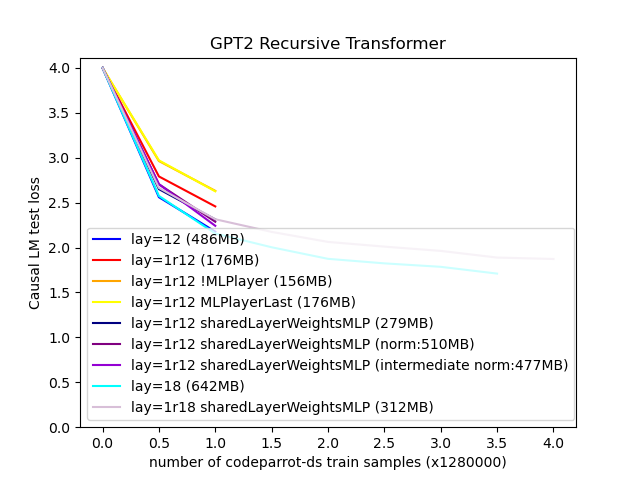
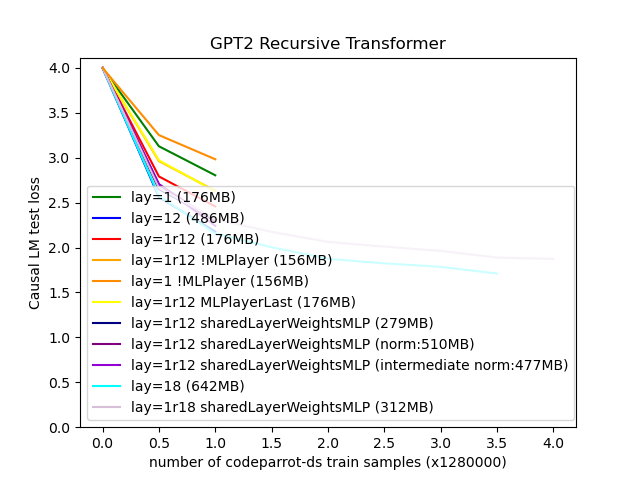
add graphs ROBERTAptRecursive/GPT2ptRecursive:!transformerBlockMLPlayer+numberOfLayers1

Changed region(s): [[0.125, 0.1875, 0.5312, 0.5938], [0.1562, 0.5312, 0.1875, 0.5938], [0.1562, 0.1562, 0.1875, 0.1875]]

diff --git a/graph/recursiveLayers/trainingResults/positionEmbeddingTypeRelative/GPT2CausalRecursiveTransformer-transformerBlockMLPlayer-perplexity.py b/graph/recursiveLayers/trainingResults/positionEmbeddingTypeRelative/GPT2CausalRecursiveTransformer-transformerBlockMLPlayer-perplexity.py
@@ -2,16 +2,19 @@ import matplotlib.pyplot as plt
 import numpy as np
 
 x = np.array([0, 0.5, 1, 1.5, 2, 2.5, 3, 3.5, 4])
-y2 = np.array([25.0, 12.94555950164795, 8.822596549987793, np.nan, np.nan, np.nan, np.nan, np.nan, np.nan])
-y3 = np.array([25.0, 16.30487823486328, 11.679261207580566, np.nan, np.nan, np.nan, np.nan, np.nan, np.nan])
-y6 = np.array([25.0, 19.353580474853516, 13.894586563110352, np.nan, np.nan, np.nan, np.nan, np.nan, np.nan])
-y7 = np.array([25.0, 19.506969451904297, 13.819287300109863, np.nan, np.nan, np.nan, np.nan, np.nan, np.nan])
-y8 = np.array([25.0, 14.158235549926758, 10.10225772857666, np.nan, np.nan, np.nan, np.nan, np.nan, np.nan])
-y9 = np.array([25.0, 14.952799797058105, 9.847137451171875, np.nan, np.nan, np.nan, np.nan, np.nan, np.nan])
-y10 = np.array([25.0, 14.95771312713623, 9.411134719848633, np.nan, np.nan, np.nan, np.nan, np.nan, np.nan])
-y11 = np.array([25.0, 13.122990608215332, 8.640877723693848, 7.411283016204834, 6.516513824462891, 6.19566535949707, 5.961752414703369, 5.528520107269287, np.nan ])
-y12 = np.array([25.0, 14.354602813720703, 10.125027656555176, 8.795341491699219, 7.866785049438477, 7.464639663696289, 7.118199825286865, 6.609375, 6.504546642303467])
+y1 = np.array([30.0, 22.8142147064209, 16.517902374267578, np.nan, np.nan, np.nan, np.nan, np.nan, np.nan])
+y2 = np.array([30.0, 12.94555950164795, 8.822596549987793, np.nan, np.nan, np.nan, np.nan, np.nan, np.nan])
+y3 = np.array([30.0, 16.30487823486328, 11.679261207580566, np.nan, np.nan, np.nan, np.nan, np.nan, np.nan])
+y6 = np.array([30.0, 19.353580474853516, 13.894586563110352, np.nan, np.nan, np.nan, np.nan, np.nan, np.nan])
+y7 = np.array([30.0, 19.506969451904297, 13.819287300109863, np.nan, np.nan, np.nan, np.nan, np.nan, np.nan])
+y8 = np.array([30.0, 14.158235549926758, 10.10225772857666, np.nan, np.nan, np.nan, np.nan, np.nan, np.nan])
+y9 = np.array([30.0, 14.952799797058105, 9.847137451171875, np.nan, np.nan, np.nan, np.nan, np.nan, np.nan])
+y10 = np.array([30.0, 14.95771312713623, 9.411134719848633, np.nan, np.nan, np.nan, np.nan, np.nan, np.nan])
+y11 = np.array([30.0, 13.122990608215332, 8.640877723693848, 7.411283016204834, 6.516513824462891, 6.19566535949707, 5.961752414703369, 5.528520107269287, np.nan ])
+y12 = np.array([30.0, 14.354602813720703, 10.125027656555176, 8.795341491699219, 7.866785049438477, 7.464639663696289, 7.118199825286865, 6.609375, 6.504546642303467])
+y14 = np.array([30.0, 25.837995529174805, 19.7428035736084, np.nan, np.nan, np.nan, np.nan, np.nan, np.nan])
 
+l1, = plt.plot(x, y1, color='green', label='lay=1 (176MB)')
 l2, = plt.plot(x, y2, color='blue', label='lay=12 (486MB)')
 l3, = plt.plot(x, y3, color='red', label='lay=1r12 (176MB)')
 l6, = plt.plot(x, y6, color='orange', label='lay=1r12 !MLPlayer (156MB)')
@@ -21,6 +24,7 @@ l9, = plt.plot(x, y9, color='purple', label='lay=1r12 sharedLayerWeightsMLP (nor
 l10, = plt.plot(x, y10, color='darkviolet', label='lay=1r12 sharedLayerWeightsMLP (intermediate norm:477MB)')
 l11, = plt.plot(x, y11, color='cyan', label='lay=18 (642MB)')
 l12, = plt.plot(x, y12, color='thistle', label='lay=1r18 sharedLayerWeightsMLP (312MB)')
+l14, = plt.plot(x, y14, color='darkorange', label='lay=1 !MLPlayer (156MB)')
 
 plt.xticks(np.arange(min(x), max(x)+0.5, 0.5))
 plt.yticks(np.arange(0, 25.0+2.0, 2.0))
@@ -29,6 +33,6 @@ plt.xlabel("number of codeparrot-ds train samples (x1280000)")
 plt.ylabel("Causal LM test perplexity")
 plt.title("GPT2 Recursive Transformer")
 
-plt.legend(handles=[l2, l3, l6, l7, l8, l9, l10, l11, l12])
+plt.legend(handles=[l1, l2, l3, l6, l14, l7, l8, l9, l10, l11, l12])
 
 plt.show()

diff --git a/graph/recursiveLayers/trainingResults/positionEmbeddingTypeAbsolute/GPT2CausalRecursiveTransformer-transformerBlockMLPlayer-perplexity.py b/graph/recursiveLayers/trainingResults/positionEmbeddingTypeAbsolute/GPT2CausalRecursiveTransformer-transformerBlockMLPlayer-perplexity.py
@@ -2,19 +2,23 @@ import matplotlib.pyplot as plt
 import numpy as np
 
 x = np.array([0, 0.5, 1, 1.5, 2, 2.5, 3, 3.5, 4])
-y2 = np.array([25.0, 8.46451473236084, 6.351888179779053, 5.609471321105957, 5.203763008117676, 4.954327583312988, 4.783695220947266, 4.655602931976318, 4.573307037353516])
-y3 = np.array([25.0, 11.413861274719238, 8.91283893585205, 8.011733055114746, 7.461851596832275, 7.120016574859619, 6.929925918579102, 6.687497615814209, 6.60063362121582])
-y6 = np.array([25.0, np.nan, np.nan, np.nan, np.nan, np.nan, np.nan, np.nan, np.nan])
-y7 = np.array([25.0, np.nan, np.nan, np.nan, np.nan, np.nan, np.nan, np.nan, np.nan])
-y8 = np.array([25.0, 15.31370735168457, 10.615104675292969, np.nan, np.nan, np.nan, np.nan, np.nan, np.nan])
-y13 = np.array([25.0, 15.526958465576172, 11.304801940917969, np.nan, np.nan, np.nan, np.nan, np.nan, np.nan])
+y1 = np.array([30.0, 16.17632293701172, 12.893939971923828, 11.613675117492676, 10.887641906738281, 10.431144714355469, 10.097999572753906, 9.906881332397461, 9.716487884521484])
+y2 = np.array([30.0, 8.46451473236084, 6.351888179779053, 5.609471321105957, 5.203763008117676, 4.954327583312988, 4.783695220947266, 4.655602931976318, 4.573307037353516])
+y3 = np.array([30.0, 11.413861274719238, 8.91283893585205, 8.011733055114746, 7.461851596832275, 7.120016574859619, 6.929925918579102, 6.687497615814209, 6.60063362121582])
+y6 = np.array([30.0, np.nan, np.nan, np.nan, np.nan, np.nan, np.nan, np.nan, np.nan])
+y7 = np.array([30.0, np.nan, np.nan, np.nan, np.nan, np.nan, np.nan, np.nan, np.nan])
+y8 = np.array([30.0, 15.31370735168457, 10.615104675292969, np.nan, np.nan, np.nan, np.nan, np.nan, np.nan])
+y13 = np.array([30.0, 15.526958465576172, 11.304801940917969, np.nan, np.nan, np.nan, np.nan, np.nan, np.nan])
+y14 = np.array([30.0, 26.357221603393555, 20.34063148498535, np.nan, np.nan, np.nan, np.nan, np.nan, np.nan])
 
+l1, = plt.plot(x, y1, color='green', label='lay=1 (176MB)')
 l2, = plt.plot(x, y2, color='blue', label='lay=12 (486MB)')
 l3, = plt.plot(x, y3, color='red', label='lay=1r12 (176MB)')
 l6, = plt.plot(x, y6, color='orange', label='lay=1r12 !MLPlayer (156MB)')
 l7, = plt.plot(x, y7, color='yellow', label='lay=1r12 MLPlayerLast (176MB)')
 l8, = plt.plot(x, y8, color='navy', label='lay=1r12 sharedLayerWeightsMLP (276MB)')
 l13, = plt.plot(x, y13, color='orange', label='lay=1r12 !MLPlayer (norm:463MB)')
+l14, = plt.plot(x, y14, color='darkorange', label='lay=1 !MLPlayer (158MB)')
 
 plt.xticks(np.arange(min(x), max(x)+0.5, 0.5))
 plt.yticks(np.arange(0, 25.0+2.0, 2.0))
@@ -23,6 +27,6 @@ plt.xlabel("number of codeparrot-ds train samples (x1280000)")
 plt.ylabel("Causal LM test perplexity")
 plt.title("GPT2 Recursive Transformer")
 
-plt.legend(handles=[l2, l3, l8, l13])
+plt.legend(handles=[l1, l2, l3, l8, l13, l14])
 
 plt.show()

diff --git a/graph/recursiveLayers/trainingResults/positionEmbeddingTypeRelative/GPT2CausalRecursiveTransformer-transformerBlockMLPlayer-loss.py b/graph/recursiveLayers/trainingResults/positionEmbeddingTypeRelative/GPT2CausalRecursiveTransformer-transformerBlockMLPlayer-loss.py
@@ -2,6 +2,7 @@ import matplotlib.pyplot as plt
 import numpy as np
 
 x = np.array([0, 0.5, 1, 1.5, 2, 2.5, 3, 3.5, 4])
+y1 = np.array([4.0, 3.1273837089538574, 2.8044447898864746, np.nan, np.nan, np.nan, np.nan, np.nan, np.nan])
 y2 = np.array([4.0, 2.5607528686523438, 2.177316188812256, np.nan, np.nan, np.nan, np.nan, np.nan, np.nan])
 y3 = np.array([4.0, 2.791464328765869, 2.4578146934509277, np.nan, np.nan, np.nan, np.nan, np.nan, np.nan])
 y6 = np.array([4.0, 2.9628775119781494, 2.6314992904663086, np.nan, np.nan, np.nan, np.nan, np.nan, np.nan])
@@ -11,7 +12,9 @@ y9 = np.array([4.0, 2.7048985958099365, 2.2871809005737305, np.nan, np.nan, np.n
 y10 = np.array([4.0, 2.7052271366119385, 2.2418935298919678, np.nan, np.nan, np.nan, np.nan, np.nan, np.nan])
 y11 = np.array([4.0, 2.5743656158447266, 2.1565041542053223, 2.0030035972595215, 1.8743395805358887, 1.8238499164581299, 1.7853643894195557, 1.7099201679229736, np.nan ])
 y12 = np.array([4.0, 2.6640706062316895, 2.3150103092193604, 2.174222230911255, 2.0626494884490967, 2.0101771354675293, 1.9626548290252686, 1.888489007949829, 1.8725013732910156])
+y14 = np.array([4.0, 3.2518460750579834, 2.9827890396118164, np.nan, np.nan, np.nan, np.nan, np.nan, np.nan])
 
+l1, = plt.plot(x, y1, color='green', label='lay=1 (176MB)')
 l2, = plt.plot(x, y2, color='blue', label='lay=12 (486MB)')
 l3, = plt.plot(x, y3, color='red', label='lay=1r12 (176MB)')
 l6, = plt.plot(x, y6, color='orange', label='lay=1r12 !MLPlayer (156MB)')
@@ -21,6 +24,7 @@ l9, = plt.plot(x, y9, color='purple', label='lay=1r12 sharedLayerWeightsMLP (nor
 l10, = plt.plot(x, y10, color='darkviolet', label='lay=1r12 sharedLayerWeightsMLP (intermediate norm:477MB)')
 l11, = plt.plot(x, y11, color='cyan', label='lay=18 (642MB)')
 l12, = plt.plot(x, y12, color='thistle', label='lay=1r18 sharedLayerWeightsMLP (312MB)')
+l14, = plt.plot(x, y14, color='darkorange', label='lay=1 !MLPlayer (156MB)')
 
 plt.xticks(np.arange(min(x), max(x)+0.5, 0.5))
 plt.yticks(np.arange(0, 4.0+0.1, 0.5))
@@ -29,6 +33,6 @@ plt.xlabel("number of codeparrot-ds train samples (x1280000)")
 plt.ylabel("Causal LM test loss")
 plt.title("GPT2 Recursive Transformer")
 
-plt.legend(handles=[l2, l3, l6, l7, l8, l9, l10, l11, l12], loc='lower left')
+plt.legend(handles=[l1, l2, l3, l6, l14, l7, l8, l9, l10, l11, l12], loc='lower left')
 
 plt.show()

diff --git a/graph/recursiveLayers/trainingResults/positionEmbeddingTypeRelative/GPT2CausalRecursiveTransformer-transformerBlockMLPlayer.py b/graph/recursiveLayers/trainingResults/positionEmbeddingTypeRelative/GPT2CausalRecursiveTransformer-transformerBlockMLPlayer.py
@@ -2,6 +2,7 @@ import matplotlib.pyplot as plt
 import numpy as np
 
 x = np.array([0, 0.5, 1, 1.5, 2, 2.5, 3, 3.5, 4])
+y1 = np.array([0.0, 0.42544126510620117, 0.4689004719257355, np.nan, np.nan, np.nan, np.nan, np.nan, np.nan])
 y2 = np.array([0.0, 0.5252946615219116, 0.5836884379386902, np.nan, np.nan, np.nan, np.nan, np.nan, np.nan])
 y3 = np.array([0.0, 0.49481841921806335, 0.539782702922821, np.nan, np.nan, np.nan, np.nan, np.nan, np.nan])
 y6 = np.array([0.0, 0.4629115164279938, 0.5114670395851135, np.nan, np.nan, np.nan, np.nan, np.nan, np.nan])
@@ -11,7 +12,9 @@ y9 = np.array([0.0, 0.5035503506660461, 0.5652393102645874, np.nan, np.nan, np.n
 y10 = np.array([0.0, 0.5022847652435303, 0.5738951563835144, np.nan, np.nan, np.nan, np.nan, np.nan, np.nan])
 y11 = np.array([0.0, 0.5243274569511414, 0.5877714157104492, 0.6125690937042236, 0.6370240449905396, 0.6460591554641724, 0.6511420607566833, 0.6658273935317993, np.nan])
 y12 = np.array([0.0, 0.5122008323669434, 0.561950147151947, 0.5813300013542175, 0.6017950177192688, 0.6117182374000549, 0.6191267967224121, 0.6318800449371338, 0.6338686943054199])
+y14 = np.array([0.0, 0.4097575545310974, 0.4444747269153595, np.nan, np.nan, np.nan, np.nan, np.nan, np.nan])
 
+l1, = plt.plot(x, y1, color='green', label='lay=1 (176MB)')
 l2, = plt.plot(x, y2, color='blue', label='lay=12 (486MB)')
 l3, = plt.plot(x, y3, color='red', label='lay=1r12 (176MB)')
 l6, = plt.plot(x, y6, color='orange', label='lay=1r12 !MLPlayer (156MB)')
@@ -21,6 +24,7 @@ l9, = plt.plot(x, y9, color='purple', label='lay=1r12 sharedLayerWeightsMLP (nor
 l10, = plt.plot(x, y10, color='darkviolet', label='lay=1r12 sharedLayerWeightsMLP (intermediate norm:477MB)')
 l11, = plt.plot(x, y11, color='cyan', label='lay=18 (642MB)')
 l12, = plt.plot(x, y12, color='thistle', label='lay=1r18 sharedLayerWeightsMLP (312MB)')
+l14, = plt.plot(x, y14, color='darkorange', label='lay=1 !MLPlayer (156MB)')
 
 plt.xticks(np.arange(min(x), max(x)+0.5, 0.5))
 plt.yticks(np.arange(0, 0.7+0.1, 0.1))
@@ -29,6 +33,6 @@ plt.xlabel("number of codeparrot-ds train samples (x1280000)")
 plt.ylabel("Causal LM test accuracy (Top-1)")
 plt.title("GPT2 Recursive Transformer")
 
-plt.legend(handles=[l2, l3, l6, l7, l8, l9, l10, l11, l12])
+plt.legend(handles=[l1, l2, l3, l6, l14, l7, l8, l9, l10, l11, l12])
 
 plt.show()

diff --git a/graph/recursiveLayers/trainingResults/positionEmbeddingTypeRelative/RobertaMaskedRecursiveTransformer-transformerBlockMLPlayer-loss.py b/graph/recursiveLayers/trainingResults/positionEmbeddingTypeRelative/RobertaMaskedRecursiveTransformer-transformerBlockMLPlayer-loss.py
@@ -2,19 +2,23 @@ import matplotlib.pyplot as plt
 import numpy as np
 
 x = np.array([0, 1, 2, 3, 4])
-y2 = np.array([0.5, 0.30940675837397574, 0.28117460092902186, 0.2687879767358303, 0.2612325044542551])
-y3 = np.array([0.5, 0.30296802766025066, 0.28217491447329524, 0.27392400919795035, 0.2656524788528681])
-y6 = np.array([0.5, 0.3210689457276463, np.nan, np.nan, np.nan])
-y7 = np.array([0.5, 0.3213745343607664, np.nan, np.nan, np.nan])
-y8 = np.array([0.5, 0.3079980277708173, np.nan, np.nan, np.nan ])
-y9 = np.array([0.5, 0.3090381079044938, np.nan, np.nan, np.nan ])
+y1 = np.array([1.0, 0.3768070258796215, 0.35672451157569884, 0.34805026364922526, 0.3422828152537346])
+y2 = np.array([1.0, 0.30940675837397574, 0.28117460092902186, 0.2687879767358303, 0.2612325044542551])
+y3 = np.array([1.0, 0.30296802766025066, 0.28217491447329524, 0.27392400919795035, 0.2656524788528681])
+y6 = np.array([1.0, 0.3210689457276463, np.nan, np.nan, np.nan])
+y7 = np.array([1.0, 0.3213745343607664, np.nan, np.nan, np.nan])
+y8 = np.array([1.0, 0.3079980277708173, np.nan, np.nan, np.nan ])
+y9 = np.array([1.0, 0.3090381079044938, np.nan, np.nan, np.nan ])
+y14 = np.array([1.0, 0.8107746505975724, np.nan, np.nan, np.nan ])
 
+l1, = plt.plot(x, y1, color='green', label='lay=1 (120MB)')
 l2, = plt.plot(x, y2, color='blue', label='lay=6 (256MB)')
 l3, = plt.plot(x, y3, color='red', label='lay=1r6 (120MB)')
 l6, = plt.plot(x, y6, color='orange', label='lay=1r6 !MLPlayer (120MB)')
 l7, = plt.plot(x, y7, color='yellow', label='lay=1r6 MLPlayerLast (120MB)')
 l8, = plt.plot(x, y9, color='purple', label='lay=1r6 sharedLayerWeightsMLP (167MB)')
 l9, = plt.plot(x, y8, color='navy', label='lay=1r6 sharedLayerWeightsMLP+SelfOut (156MB)')
+l14, = plt.plot(x, y14, color='orange', label='lay=1 !MLPlayer (120MB)')
 
 plt.xticks(np.arange(min(x), max(x)+1, 1.0))
 plt.yticks(np.arange(0, 0.5+0.1, 0.1))
@@ -23,6 +27,6 @@ plt.xlabel("number of oscar en train samples (x1000000)")
 plt.ylabel("Masked LM test loss")
 plt.title("RoBERTa Recursive Transformer")
 
-plt.legend(handles=[l2, l3, l6, l7, l8, l9])
+plt.legend(handles=[l1, l2, l3, l6, l7, l8, l9, l14])
 
 plt.show()

diff --git a/graph/recursiveLayers/trainingResults/positionEmbeddingTypeAbsolute/GPT2CausalRecursiveTransformer-transformerBlockMLPlayer.py b/graph/recursiveLayers/trainingResults/positionEmbeddingTypeAbsolute/GPT2CausalRecursiveTransformer-transformerBlockMLPlayer.py
@@ -2,19 +2,23 @@ import matplotlib.pyplot as plt
 import numpy as np
 
 x = np.array([0, 0.5, 1, 1.5, 2, 2.5, 3, 3.5, 4])
+y1 = np.array([0.0, 0.4715276062488556, 0.504429817199707, 0.5217463970184326, 0.5327208638191223, 0.540026068687439, 0.5456399321556091, 0.5492268204689026, 0.5532917976379395])
 y2 = np.array([0.0, 0.5848015546798706, 0.6353920698165894, 0.6581273078918457, 0.6719351410865784, 0.6809597015380859, 0.6881480813026428, 0.6926000118255615, 0.6963947415351868])
 y3 = np.array([0.0, 0.5370364785194397, 0.5751139521598816, 0.5930986404418945, 0.6051175594329834, 0.6125524044036865, 0.6182177066802979, 0.6243066191673279, 0.6271749138832092])
 y6 = np.array([0.0, np.nan, np.nan, np.nan, np.nan, np.nan, np.nan, np.nan, np.nan])
 y7 = np.array([0.0, np.nan, np.nan, np.nan, np.nan, np.nan, np.nan, np.nan, np.nan])
 y8 = np.array([0.0, 0.5002896189689636, 0.5535823702812195, np.nan, np.nan, np.nan, np.nan, np.nan, np.nan])
 y13 = np.array([0.0, 0.49833741784095764, 0.5456426739692688, np.nan, np.nan, np.nan, np.nan, np.nan, np.nan])
+y14 = np.array([0.0, 0.4050893783569336, 0.4393422603607178, np.nan, np.nan, np.nan, np.nan, np.nan, np.nan])
 
+l1, = plt.plot(x, y1, color='green', label='lay=1 (176MB)')
 l2, = plt.plot(x, y2, color='blue', label='lay=12 (486MB)')
 l3, = plt.plot(x, y3, color='red', label='lay=1r12 (176MB)')
 l6, = plt.plot(x, y6, color='orange', label='lay=1r12 !MLPlayer (156MB)')
 l7, = plt.plot(x, y7, color='yellow', label='lay=1r12 MLPlayerLast (176MB)')
 l8, = plt.plot(x, y8, color='navy', label='lay=1r12 sharedLayerWeightsMLP (276MB)')
 l13, = plt.plot(x, y13, color='orange', label='lay=1r12 !MLPlayer (norm:463MB)')
+l14, = plt.plot(x, y14, color='darkorange', label='lay=1 !MLPlayer (158MB)')
 
 plt.xticks(np.arange(min(x), max(x)+0.5, 0.5))
 plt.yticks(np.arange(0, 0.7+0.1, 0.1))
@@ -23,6 +27,6 @@ plt.xlabel("number of codeparrot-ds train samples (x1280000)")
 plt.ylabel("Causal LM test accuracy (Top-1)")
 plt.title("GPT2 Recursive Transformer")
 
-plt.legend(handles=[l2, l3, l8, l13])
+plt.legend(handles=[l1, l2, l3, l8, l13, l14])
 
 plt.show()

diff --git a/graph/recursiveLayers/trainingResults/positionEmbeddingTypeAbsolute/GPT2CausalRecursiveTransformer-transformerBlockMLPlayer-loss.py b/graph/recursiveLayers/trainingResults/positionEmbeddingTypeAbsolute/GPT2CausalRecursiveTransformer-transformerBlockMLPlayer-loss.py
@@ -2,19 +2,23 @@ import matplotlib.pyplot as plt
 import numpy as np
 
 x = np.array([0, 0.5, 1, 1.5, 2, 2.5, 3, 3.5, 4])
+y1 = np.array([4.0, 2.783548593521118, 2.5567574501037598, 2.452183246612549, 2.3876283168792725, 2.3447959423065186, 2.3123373985290527, 2.293229579925537, 2.2738242149353027])
 y2 = np.array([4.0, 2.135882616043091, 1.8487520217895508, 1.7244564294815063, 1.6493819952011108, 1.6002614498138428, 1.5652133226394653, 1.5380713939666748, 1.520236611366272])
 y3 = np.array([4.0, 2.434828519821167, 2.187492847442627, 2.080907106399536, 2.009803533554077, 1.9629100561141968, 1.9358490705490112, 1.9002397060394287, 1.8871656656265259])
 y6 = np.array([4.0, np.nan, np.nan, np.nan, np.nan, np.nan, np.nan, np.nan, np.nan])
 y7 = np.array([4.0, np.nan, np.nan, np.nan, np.nan, np.nan, np.nan, np.nan, np.nan])
 y8 = np.array([4.0, 2.728748321533203, 2.3622779846191406, np.nan, np.nan, np.nan, np.nan, np.nan, np.nan])
 y13 = np.array([4.0, 2.7425777912139893, 2.425227642059326, np.nan, np.nan, np.nan, np.nan, np.nan, np.nan])
+y14 = np.array([4.0, 3.271742343902588, 3.012620449066162, np.nan, np.nan, np.nan, np.nan, np.nan, np.nan])
 
+l1, = plt.plot(x, y1, color='green', label='lay=1 (176MB)')
 l2, = plt.plot(x, y2, color='blue', label='lay=12 (486MB)')
 l3, = plt.plot(x, y3, color='red', label='lay=1r12 (176MB)')
 l6, = plt.plot(x, y6, color='orange', label='lay=1r12 !MLPlayer (156MB)')
 l7, = plt.plot(x, y7, color='yellow', label='lay=1r12 MLPlayerLast (176MB)')
 l8, = plt.plot(x, y8, color='navy', label='lay=1r12 sharedLayerWeightsMLP (276MB)')
 l13, = plt.plot(x, y13, color='orange', label='lay=1r12 !MLPlayer (norm:463MB)')
+l14, = plt.plot(x, y14, color='darkorange', label='lay=1 !MLPlayer (158MB)')
 
 plt.xticks(np.arange(min(x), max(x)+0.5, 0.5))
 plt.yticks(np.arange(0, 4.0+0.1, 0.5))
@@ -23,6 +27,6 @@ plt.xlabel("number of codeparrot-ds train samples (x1280000)")
 plt.ylabel("Causal LM test loss")
 plt.title("GPT2 Recursive Transformer")
 
-plt.legend(handles=[l2, l3, l8, l13])
+plt.legend(handles=[l1, l2, l3, l8, l13, l14])
 
 plt.show()

diff --git a/graph/recursiveLayers/trainingResults/positionEmbeddingTypeRelative/RobertaMaskedRecursiveTransformer-transformerBlockMLPlayer.py b/graph/recursiveLayers/trainingResults/positionEmbeddingTypeRelative/RobertaMaskedRecursiveTransformer-transformerBlockMLPlayer.py
@@ -2,19 +2,23 @@ import matplotlib.pyplot as plt
 import numpy as np
 
 x = np.array([0, 1, 2, 3, 4])
+y1 = np.array([0, 0.3200524007320404, 0.3405463897109032, 0.3522671243667603, 0.35763392360210416])
 y2 = np.array([0, 0.42890446846485136, 0.4656440287351608, 0.48165937175750734, 0.4940115956068039])
 y3 = np.array([0, 0.44220867459774016, 0.4677618439912796, 0.4787390529155731, 0.49010481104850767])
 y6 = np.array([0, 0.41028395064234735, np.nan, np.nan, np.nan])
 y7 = np.array([0, 0.40962072494506835, np.nan, np.nan, np.nan])
 y8 = np.array([0.0, 0.4304612619328499, np.nan, np.nan, np.nan ])
 y9 = np.array([0.0, 0.42894357948422435, np.nan, np.nan, np.nan ])
+y14 = np.array([0.0, 0.1722359660077095, np.nan, np.nan, np.nan ])
 
+l1, = plt.plot(x, y1, color='green', label='lay=1 (120MB)')
 l2, = plt.plot(x, y2, color='blue', label='lay=6 (256MB)')
 l3, = plt.plot(x, y3, color='red', label='lay=1r6 (120MB)')
 l6, = plt.plot(x, y6, color='orange', label='lay=1r6 !MLPlayer (120MB)')
 l7, = plt.plot(x, y7, color='yellow', label='lay=1r6 MLPlayerLast (120MB)')
 l8, = plt.plot(x, y9, color='purple', label='lay=1r6 sharedLayerWeightsMLP (167MB)')
 l9, = plt.plot(x, y8, color='navy', label='lay=1r6 sharedLayerWeightsMLP+SelfOut (156MB)')
+l14, = plt.plot(x, y14, color='orange', label='lay=1 !MLPlayer (120MB)')
 
 plt.xticks(np.arange(min(x), max(x)+1, 1.0))
 plt.yticks(np.arange(0, 0.5+0.1, 0.1))
@@ -23,6 +27,6 @@ plt.xlabel("number of oscar en train samples (x1000000)")
 plt.ylabel("Masked LM test accuracy (Top-1)")
 plt.title("RoBERTa Recursive Transformer")
 
-plt.legend(handles=[l2, l3, l6, l7, l8, l9])
+plt.legend(handles=[l1, l2, l3, l6, l7, l8, l9, l14])
 
 plt.show()

diff --git a/graph/recursiveLayers/trainingResults/positionEmbeddingTypeRelative/RobertaCausalRecursiveTransformer-loss-transformerBlockMLPlayer.py b/graph/recursiveLayers/trainingResults/positionEmbeddingTypeRelative/RobertaCausalRecursiveTransformer-loss-transformerBlockMLPlayer.py
@@ -2,15 +2,19 @@ import matplotlib.pyplot as plt
 import numpy as np
 
 x = np.array([0, 1, 2, 3, 4])
+y1 = np.array([6.0, 2.8682198713064193, np.nan, np.nan, np.nan])
 y2 = np.array([6.0, 2.521359804382324, np.nan, np.nan, np.nan])
 y3 = np.array([6.0, 2.5844951899254323, np.nan, np.nan, np.nan])
 y6 = np.array([6.0, 4.073932212734222, np.nan, np.nan, np.nan])
 y13 = np.array([6.0, 4.489333348503113, np.nan, np.nan, np.nan])
+y14 = np.array([6.0, 4.605708380413056, np.nan, np.nan, np.nan])
 
-l2, = plt.plot(x, y2, color='blue', label='lay=6, hid=768, head=12 (256MB) [w/wo warmup]')
+l1, = plt.plot(x, y1, color='green', label='lay=1, hid=768, head=12 (120MB)')
+l2, = plt.plot(x, y2, color='blue', label='lay=6, hid=768, head=12 (256MB) [wo warmup]')
 l3, = plt.plot(x, y3, color='red', label='lay=1r6, hid=768, head=12 (120MB)')
-l6, = plt.plot(x, y6, color='blue', label='lay=6, hid=768, head=12 (256MB) [w warmup]')	#, linestyle='dashed'
+#l6, = plt.plot(x, y6, color='blue', label='lay=6, hid=768, head=12 (256MB) [w warmup]')	#, linestyle='dashed'
 l13, = plt.plot(x, y13, color='orange', label='lay=1r6, hid=1690, head=26; !MLPlayer (norm:255MB)')
+l14, = plt.plot(x, y14, color='darkorange', label='lay=1, hid=768, head=12; !MLPlayer (norm:120MB)')
 
 plt.xticks(np.arange(min(x), max(x)+0.5, 0.5))
 plt.yticks(np.arange(0, 6.0+0.1, 0.5))
@@ -19,6 +23,6 @@ plt.xlabel("number of oscar en train samples (x1000000)")
 plt.ylabel("Causal LM test loss")
 plt.title("RoBERTa Recursive Transformer")
 
-plt.legend(handles=[l2, l3, l13])
+plt.legend(handles=[l2, l3, l1, l13, l14])
 
 plt.show()

diff --git a/graph/recursiveLayers/trainingResults/positionEmbeddingTypeRelative/RobertaCausalRecursiveTransformer-transformerBlockMLPlayer.py b/graph/recursiveLayers/trainingResults/positionEmbeddingTypeRelative/RobertaCausalRecursiveTransformer-transformerBlockMLPlayer.py
@@ -2,15 +2,19 @@ import matplotlib.pyplot as plt
 import numpy as np
 
 x = np.array([0, 1, 2, 3, 4])
+y1 = np.array([0, 0.24316118257284164, np.nan, np.nan, np.nan])
 y2 = np.array([0, 0.31380176396012305, np.nan, np.nan, np.nan])
 y3 = np.array([0, 0.30387136477828025, np.nan, np.nan, np.nan])
 y6 = np.array([0, 0.310142416574955, np.nan, np.nan, np.nan])
 y13 = np.array([0, 0.275956364222765, np.nan, np.nan, np.nan])
+y14 = np.array([0, 0.24231457388401031, np.nan, np.nan, np.nan])
 
+l1, = plt.plot(x, y1, color='green', label='lay=1, hid=768, head=12 (120MB)')
 l2, = plt.plot(x, y2, color='blue', label='lay=6, hid=768, head=12 (256MB) [w/wo warmup]')
 l3, = plt.plot(x, y3, color='red', label='lay=1r6, hid=768, head=12 (120MB)')
 #l6, = plt.plot(x, y6, color='blue', label='lay=6, hid=768, head=12 (256MB) [w/warmup]', linestyle='dashed')
 l13, = plt.plot(x, y13, color='orange', label='lay=1r6, hid=1690, head=26; !MLPlayer (norm:255MB)')
+l14, = plt.plot(x, y14, color='darkorange', label='lay=1, hid=768, head=12; !MLPlayer (norm:120MB)')
 
 plt.xticks(np.arange(min(x), max(x)+1, 1.0))
 plt.yticks(np.arange(0, 0.5+0.1, 0.1))
@@ -19,6 +23,6 @@ plt.xlabel("number of oscar en train samples (x1000000)")
 plt.ylabel("Causal LM test accuracy (Top-1)")
 plt.title("RoBERTa Recursive Transformer")
 
-plt.legend(handles=[l2, l3, l13])
+plt.legend(handles=[l2, l3, l1, l13, l14])
 
 plt.show()
